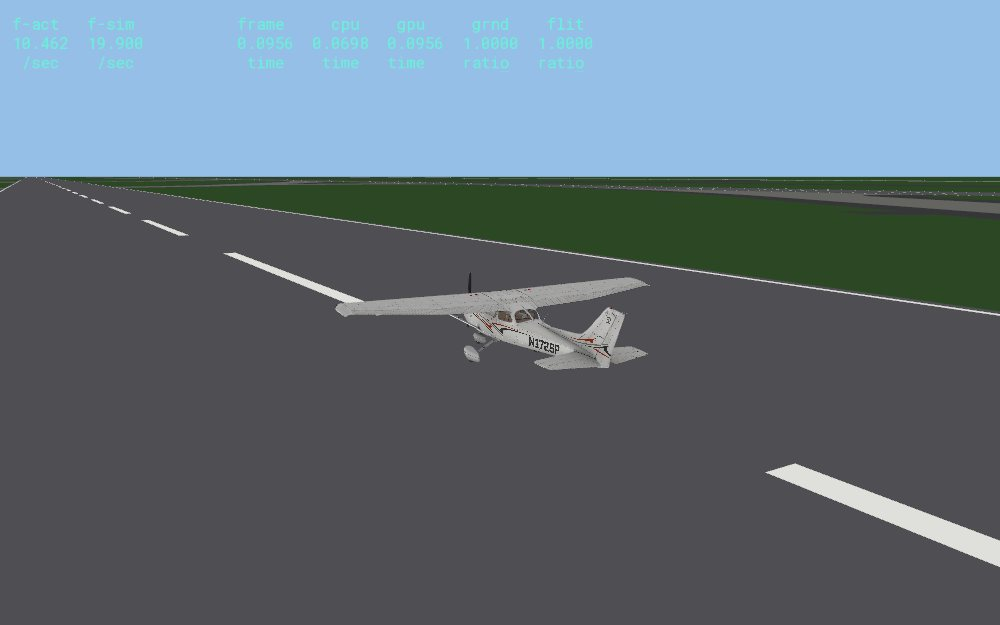
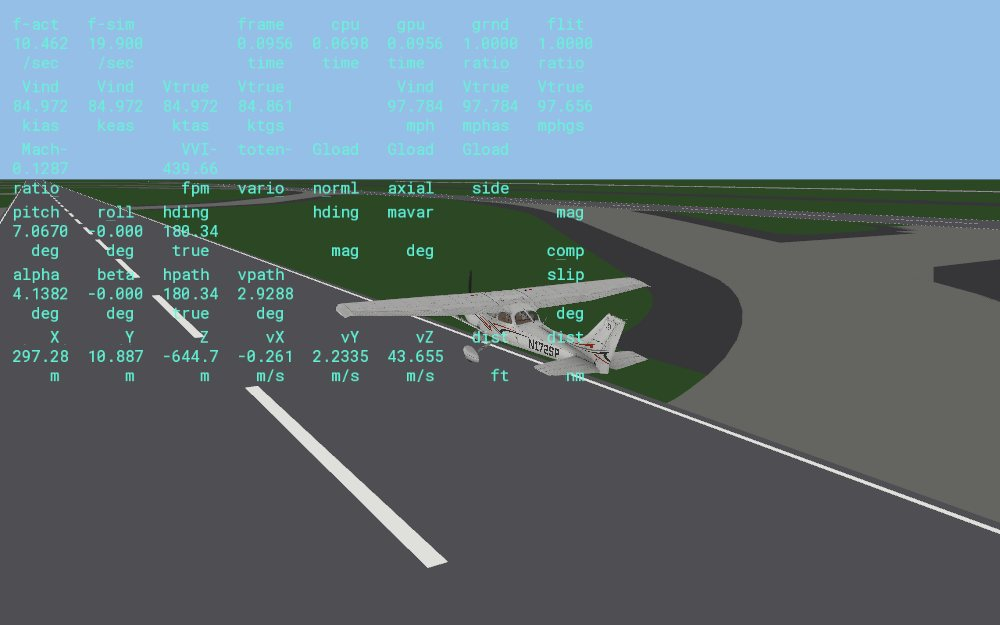
Draw more data-output lines from the flight model

diff --git a/site/app.js b/site/app.js
@@ -71,7 +71,7 @@ const GALLERY = {
     ["assets/gallery/exterior-seaplane.jpg", "Cessna 172 SP seaplane", "The floats variant loads and flies in the model as well."],
   ],
   flight: [
-    ["assets/gallery/ui-frame-rate.jpg", "Frame-rate line", "The reference build's data-output frame-rate line (labels from its code; layout, colour and the sample values are from a photograph of it)."],
+    ["assets/gallery/ui-frame-rate.jpg", "Data-output lines", "Lines 0, 3, 4, 17, 18 and 21 of the reference build's data-output table: labels from its code, layout, colour and the frame-rate sample values from a photograph, the rest from the approximate flight model."],
     ["assets/gallery/flight-000.00s.jpg", "On the runway", "Standing on the gear at the start of runway 16L."],
     ["assets/gallery/flight-017.00s.jpg", "Takeoff roll", "About 17 seconds in, the nose rotating."],
     ["assets/gallery/flight-024.00s.jpg", "Liftoff", "The wheels leave the runway."],

diff --git a/crates/xp-app/src/dout.rs b/crates/xp-app/src/dout.rs
@@ -4,6 +4,7 @@
 //! What is taken from the reference build (`tools/extract_dout.py`, `assets/dout/lines.tsv`): the 173 line
 //! label strings. A label is 8 cells of 12 characters; `_` stands for a space; the first six characters of a
 //! cell are its upper label row and the last six its lower row; a cell whose label is `_____-_____` is empty.
+//! A `-` inside a label is drawn as a space (the photograph shows no dashes; this is an assumption).
 //! The frame-rate line has a second form without the `vblnk sync` cell, which the reference build uses when
 //! that value is not available.
 //!
@@ -12,6 +13,7 @@
 //! pitch, the teal text colour, and the value format (six characters, as many decimals as fit). Values are
 //! supplied by the caller; the font is this project's, not the reference build's bitmap font.
 use crate::hud::{Color, Hud};
+use openxplane::flight::{Controls, State, Telemetry};
 
 #[allow(dead_code)]
 const LINES: &str = include_str!("../assets/dout/lines.tsv");
@@ -93,6 +95,125 @@ pub fn draw_line(
     3.0 * row
 }
 
+/// The values the viewer can supply to a data-output line.
+pub struct Sample<'a> {
+    pub telemetry: &'a Telemetry,
+    pub controls: &'a Controls,
+    pub state: &'a State,
+    /// The measured frame timings (line 0), when the caller has them.
+    pub frame: Option<[Option<f32>; CELLS]>,
+}
+
+const KT_PER_MS: f32 = 1.943_844_5;
+const MPH_PER_MS: f32 = 2.236_936_3;
+
+/// Speed of sound in m/s of the standard atmosphere at the altitude in metres.
+fn speed_of_sound(altitude_m: f32) -> f32 {
+    let t = 288.15 - 0.0065 * altitude_m.min(11_000.0);
+    340.294 * (t / 288.15).sqrt()
+}
+
+/// The cell values of line `index` from the flight model, or `None` for a line this build cannot fill. The
+/// values come from the approximate flight model (research/FLIGHT_MODEL.md); cells without a source are
+/// empty.
+pub fn line_values(index: usize, s: &Sample) -> Option<[Option<f32>; CELLS]> {
+    let (t, c, st) = (s.telemetry, s.controls, s.state);
+    let tas = st.velocity.length();
+    let ground = (st.velocity.x * st.velocity.x + st.velocity.z * st.velocity.z).sqrt();
+    let heading = |x: f32, z: f32| (x.atan2(-z).to_degrees() + 360.0) % 360.0;
+    let mut v = [None; CELLS];
+    match index {
+        0 => return s.frame,
+        3 => {
+            v[0] = Some(t.airspeed_kt);
+            v[1] = Some(t.airspeed_kt);
+            v[2] = Some(tas * KT_PER_MS);
+            v[3] = Some(ground * KT_PER_MS);
+            v[5] = Some(t.airspeed_kt * MPH_PER_MS / KT_PER_MS);
+            v[6] = Some(tas * MPH_PER_MS);
+            v[7] = Some(ground * MPH_PER_MS);
+        }
+        4 => {
+            v[0] = Some(tas / speed_of_sound(t.altitude_ft * 0.3048));
+            v[2] = Some(t.vertical_speed_fpm);
+        }
+        8 => {
+            v[0] = Some(c.elevator);
+            v[1] = Some(c.aileron);
+            v[2] = Some(c.rudder);
+        }
+        13 => {
+            v[0] = Some(c.elevator_trim);
+            v[1] = Some(c.aileron_trim);
+            v[2] = Some(c.rudder_trim);
+            v[3] = Some(c.flaps);
+            v[4] = Some(c.flaps);
+        }
+        17 => {
+            v[0] = Some(t.pitch_deg);
+            v[1] = Some(t.roll_deg);
+            v[2] = Some(t.heading_deg);
+        }
+        18 => {
+            let body = st.orientation.inverse() * st.velocity;
+            v[0] = Some(t.alpha_deg);
+            v[1] = Some(body.x.atan2(-body.z).to_degrees());
+            v[2] = Some(heading(st.velocity.x, st.velocity.z));
+            v[3] = Some(st.velocity.y.atan2(ground).to_degrees());
+        }
+        20 => {
+            v[2] = Some(t.altitude_ft);
+            v[5] = Some(t.altitude_ft);
+        }
+        21 => {
+            v[0] = Some(st.position.x);
+            v[1] = Some(st.position.y);
+            v[2] = Some(st.position.z);
+            v[3] = Some(st.velocity.x);
+            v[4] = Some(st.velocity.y);
+            v[5] = Some(st.velocity.z);
+        }
+        25 => v[0] = Some(c.throttle),
+        _ => return None,
+    }
+    Some(v)
+}
+
+/// The lines selected by `OPENXPLANE_DATA_OUTPUT` (a comma-separated list of line indexes, like the Data
+/// Output checkboxes of the reference build); `OPENXPLANE_FRAME_RATE` adds line 0.
+pub fn selected_lines() -> Vec<usize> {
+    let mut lines: Vec<usize> = std::env::var("OPENXPLANE_DATA_OUTPUT")
+        .unwrap_or_default()
+        .split(',')
+        .filter_map(|t| t.trim().parse().ok())
+        .collect();
+    if std::env::var_os("OPENXPLANE_FRAME_RATE").is_some() {
+        lines.push(0);
+    }
+    lines.sort_unstable();
+    lines.dedup();
+    lines
+}
+
+/// Draws the selected lines one under the other in index order; lines without values are skipped. The
+/// frame-rate line uses its label without the vertical-blank cell.
+pub fn draw_lines(hud: &mut Hud, lines: &[usize], sample: &Sample, scale: f32) {
+    let (x, mut y) = (16.0 * scale, 16.0 * scale);
+    for &index in lines {
+        let Some(values) = line_values(index, sample) else {
+            continue;
+        };
+        let label = if index == 0 {
+            Some(FRAME_RATE_NO_VSYNC.to_string())
+        } else {
+            label(index)
+        };
+        if let Some(label) = label {
+            y += draw_line(hud, x, y, scale, &label, &values) + 6.0 * scale;
+        }
+    }
+}
+
 #[cfg(test)]
 mod tests {
     use super::*;
@@ -120,6 +241,48 @@ mod tests {
         assert_eq!(format_value(1.0), "1.0000");
         assert_eq!(format_value(123.456), "123.46");
         assert_eq!(format_value(-1.5), "-1.500");
+    }
+
+    #[test]
+    fn supported_lines_fill_cells_that_have_a_label() {
+        let telemetry = Telemetry {
+            airspeed_kt: 80.0,
+            altitude_ft: 1000.0,
+            vertical_speed_fpm: 500.0,
+            pitch_deg: 5.0,
+            roll_deg: -2.0,
+            heading_deg: 90.0,
+            alpha_deg: 4.0,
+            throttle: 1.0,
+            on_ground: false,
+            stalled_elements: 0,
+        };
+        let controls = Controls::default();
+        let state = State {
+            position: glam::Vec3::new(1.0, 2.0, 3.0),
+            velocity: glam::Vec3::new(40.0, 0.0, 0.0),
+            orientation: glam::Quat::IDENTITY,
+            omega: glam::Vec3::ZERO,
+            time: 0.0,
+        };
+        let sample = Sample {
+            telemetry: &telemetry,
+            controls: &controls,
+            state: &state,
+            frame: None,
+        };
+        for index in [3, 4, 8, 13, 17, 18, 20, 21, 25] {
+            let values = line_values(index, &sample).unwrap();
+            let cells = cell_labels(&label(index).unwrap());
+            for (value, cell) in values.iter().zip(&cells) {
+                assert!(value.is_none() || cell.is_some(), "line {index}");
+            }
+            assert!(values.iter().any(Option::is_some));
+        }
+        let speeds = line_values(3, &sample).unwrap();
+        assert!((speeds[3].unwrap() - 40.0 * KT_PER_MS).abs() < 1e-3);
+        assert!(line_values(100, &sample).is_none());
+        assert!(line_values(0, &sample).is_none());
     }
 
     #[test]

diff --git a/crates/xp-app/src/viewer.rs b/crates/xp-app/src/viewer.rs
@@ -140,8 +140,8 @@ struct Flight {
     free_camera: bool,
     view_offset: Vec3,
     message: Option<(String, Instant)>,
-    /// The data-output frame-rate line, off by default as in the reference build.
-    show_rate: bool,
+    /// The data-output lines to draw (`OPENXPLANE_DATA_OUTPUT`), none by default as in the reference build.
+    data_output: Vec<usize>,
     rate: Rate,
 }
 
@@ -389,7 +389,7 @@ impl ApplicationHandler for App {
                         .renderer
                         .update_meshes(flight.body.first_mesh, &self.scene);
                     state.window.set_title(&flight.title());
-                    if flight.show_rate {
+                    if !flight.data_output.is_empty() {
                         flight.rate.cpu_time =
                             Rate::blend(flight.rate.cpu_time, flight.last.elapsed().as_secs_f32());
                         let r = &flight.rate;
@@ -401,22 +401,27 @@ impl ApplicationHandler for App {
                             0.0
                         };
                         // no GPU timing is measured, so that cell has no value
-                        crate::dout::draw_line(
+                        let frame = [
+                            Some(active),
+                            Some(r.sim_rate),
+                            None,
+                            Some(r.frame_time),
+                            Some(r.cpu_time),
+                            None,
+                            Some(r.ratio),
+                            Some(r.ratio),
+                        ];
+                        let telemetry = flight.model.telemetry(&flight.controls);
+                        crate::dout::draw_lines(
                             &mut interface,
-                            16.0 * scale,
-                            16.0 * scale,
+                            &flight.data_output,
+                            &crate::dout::Sample {
+                                telemetry: &telemetry,
+                                controls: &flight.controls,
+                                state: &flight.model.state,
+                                frame: Some(frame),
+                            },
                             scale,
-                            crate::dout::FRAME_RATE_NO_VSYNC,
-                            &[
-                                Some(active),
-                                Some(r.sim_rate),
-                                None,
-                                Some(r.frame_time),
-                                Some(r.cpu_time),
-                                None,
-                                Some(r.ratio),
-                                Some(r.ratio),
-                            ],
                         );
                         state.renderer.set_hud(&interface.vertices);
                     }
@@ -564,7 +569,7 @@ pub fn run_flight(session: FlightSession, smoke: bool) -> Result<(), Box<dyn std
         free_camera: false,
         view_offset: Vec3::ZERO,
         message: None,
-        show_rate: std::env::var_os("OPENXPLANE_FRAME_RATE").is_some(),
+        data_output: crate::dout::selected_lines(),
         rate: Rate::default(),
     };
     run_app(scene, Some(flight), smoke)

diff --git a/crates/xp-app/src/main.rs b/crates/xp-app/src/main.rs
@@ -384,27 +384,32 @@ fn run() -> Result<bool, Box<dyn std::error::Error>> {
             camera.yaw = std::f32::consts::PI - (-forward.x).atan2(-forward.z) + 0.55;
             camera.pitch = 0.18;
             camera.distance = 24.0;
-            if std::env::var_os("OPENXPLANE_FRAME_RATE").is_some() {
-                // the sample values of the reference photograph, to compare the layout
+            let lines = dout::selected_lines();
+            if !lines.is_empty() {
+                // line 0 shows the sample values of the reference photograph, to compare the layout
                 let (fw, fh) = offscreen.size();
                 let mut hud = hud::Hud::new(fw, fh);
                 let scale = (fh as f32 / 800.0).clamp(0.7, 1.6);
-                dout::draw_line(
+                let telemetry = session.model.telemetry(&c);
+                dout::draw_lines(
                     &mut hud,
-                    16.0 * scale,
-                    16.0 * scale,
+                    &lines,
+                    &dout::Sample {
+                        telemetry: &telemetry,
+                        controls: &c,
+                        state: &session.model.state,
+                        frame: Some([
+                            Some(10.462),
+                            Some(19.9),
+                            None,
+                            Some(0.0956),
+                            Some(0.0698),
+                            Some(0.0956),
+                            Some(1.0),
+                            Some(1.0),
+                        ]),
+                    },
                     scale,
-                    dout::FRAME_RATE_NO_VSYNC,
-                    &[
-                        Some(10.462),
-                        Some(19.9),
-                        None,
-                        Some(0.0956),
-                        Some(0.0698),
-                        Some(0.0956),
-                        Some(1.0),
-                        Some(1.0),
-                    ],
                 );
                 offscreen.set_hud(&hud.vertices);
             }

diff --git a/README.md b/README.md
@@ -314,7 +314,7 @@ cargo run --release --offline -- fly-test Xplane12 "Xplane12/Cessna 172 SP/Cessn
 keyboard map**, read from the reference build: F1/F2/F3 throttle down/up/full, `1`/`2` flaps up/down, `B` brakes
 (hold), `V` maximum brakes, `[` `]` pitch trim, `5 6 7` rudder trim, `8 9 0` aileron trim, `P` pause, `W` default
 view, `Q E R F` and `= -` move the camera. The original has no keyboard stick, so openXplane adds one: arrow keys
-pitch and roll, `Z`/`X` rudder (`Tab` gives them their original meaning back), `Delete` resets, `Esc` quits. `OPENXPLANE_FRAME_RATE=1` draws the reference build's frame-rate data-output line (see `crates/xp-app/src/dout.rs`).
+pitch and roll, `Z`/`X` rudder (`Tab` gives them their original meaning back), `Delete` resets, `Esc` quits. `OPENXPLANE_DATA_OUTPUT=0,3,4,17,18,21` draws the reference build's data-output lines with those indexes (the Data Output list of X-Plane: 0 frame rate, 3 speeds, 4 Mach and vertical speed, 8 stick, 13 trims and flaps, 17 attitude, 18 alpha and flight path, 20 altitude, 21 position and velocity, 25 throttle; `OPENXPLANE_FRAME_RATE=1` adds line 0); see `crates/xp-app/src/dout.rs`.
 Commands without anything to act on yet (mixture, magnetos, carb heat...) are reported in the window title as not
 simulated. The title also shows speed, altitude, vertical speed, pitch, bank, heading, throttle, flaps and a stall
 warning. Full table: [docs/KEYBOARD.md](docs/KEYBOARD.md); source of the map: [research/KEYMAP.md](research/KEYMAP.md).

diff --git a/CHANGELOG.md b/CHANGELOG.md
@@ -4,7 +4,7 @@ All notable changes. The newest is first. Versions are `MAJOR.MINOR.COMMITS` (se
 
 ## 0.1
 
-- The data-output frame-rate line of the reference build (`OPENXPLANE_FRAME_RATE=1`) and the label table of all 173 data-output lines extracted from the executable. The earlier invented instrument panel, key help and menu bar are removed.
+- The data-output lines of the reference build (`OPENXPLANE_DATA_OUTPUT`, frame rate, speeds, attitude, position and others) and the label table of all 173 data-output lines extracted from the executable. The earlier invented instrument panel, key help and menu bar are removed.
 - Ports with emulator vectors: the element planform area, the control surface deflection getter, the control surface terms function and two small helpers.
 - Workspace of crates by subsystem (`xp-acf`, `xp-airfoil`, `xp-obj`, `xp-scenery`, `xp-dataref`, `xp-sim`,
   `xp-discord`, `xp-app`), with scripts, CI and nightly builds.

diff --git a/research/DATA_OUTPUT.md b/research/DATA_OUTPUT.md
@@ -25,5 +25,7 @@ implemented in `crates/xp-app/src/dout.rs` and may differ from the original.
 ## Not established
 
 The drawing routine `0x1416cc3a0`, the meaning of the cell kinds, the screen position, the original bitmap font,
-and the value sources of every line. Only the frame-rate line is drawn, with values measured by the viewer (the
-GPU time is not measured, so its cell has no value).
+and the value sources of every line. Lines 0 (frame rate), 3, 4, 8, 13, 17, 18, 20, 21 and 25 are drawn with values from the approximate flight
+model (`dout::line_values`); cells without a source are empty (no GPU time, g-loads, magnetic values,
+latitude and longitude). The numbers of the other lines of the table need engine, weather and electrical
+systems that do not exist here. A `-` inside a label is drawn as a space (assumption).
